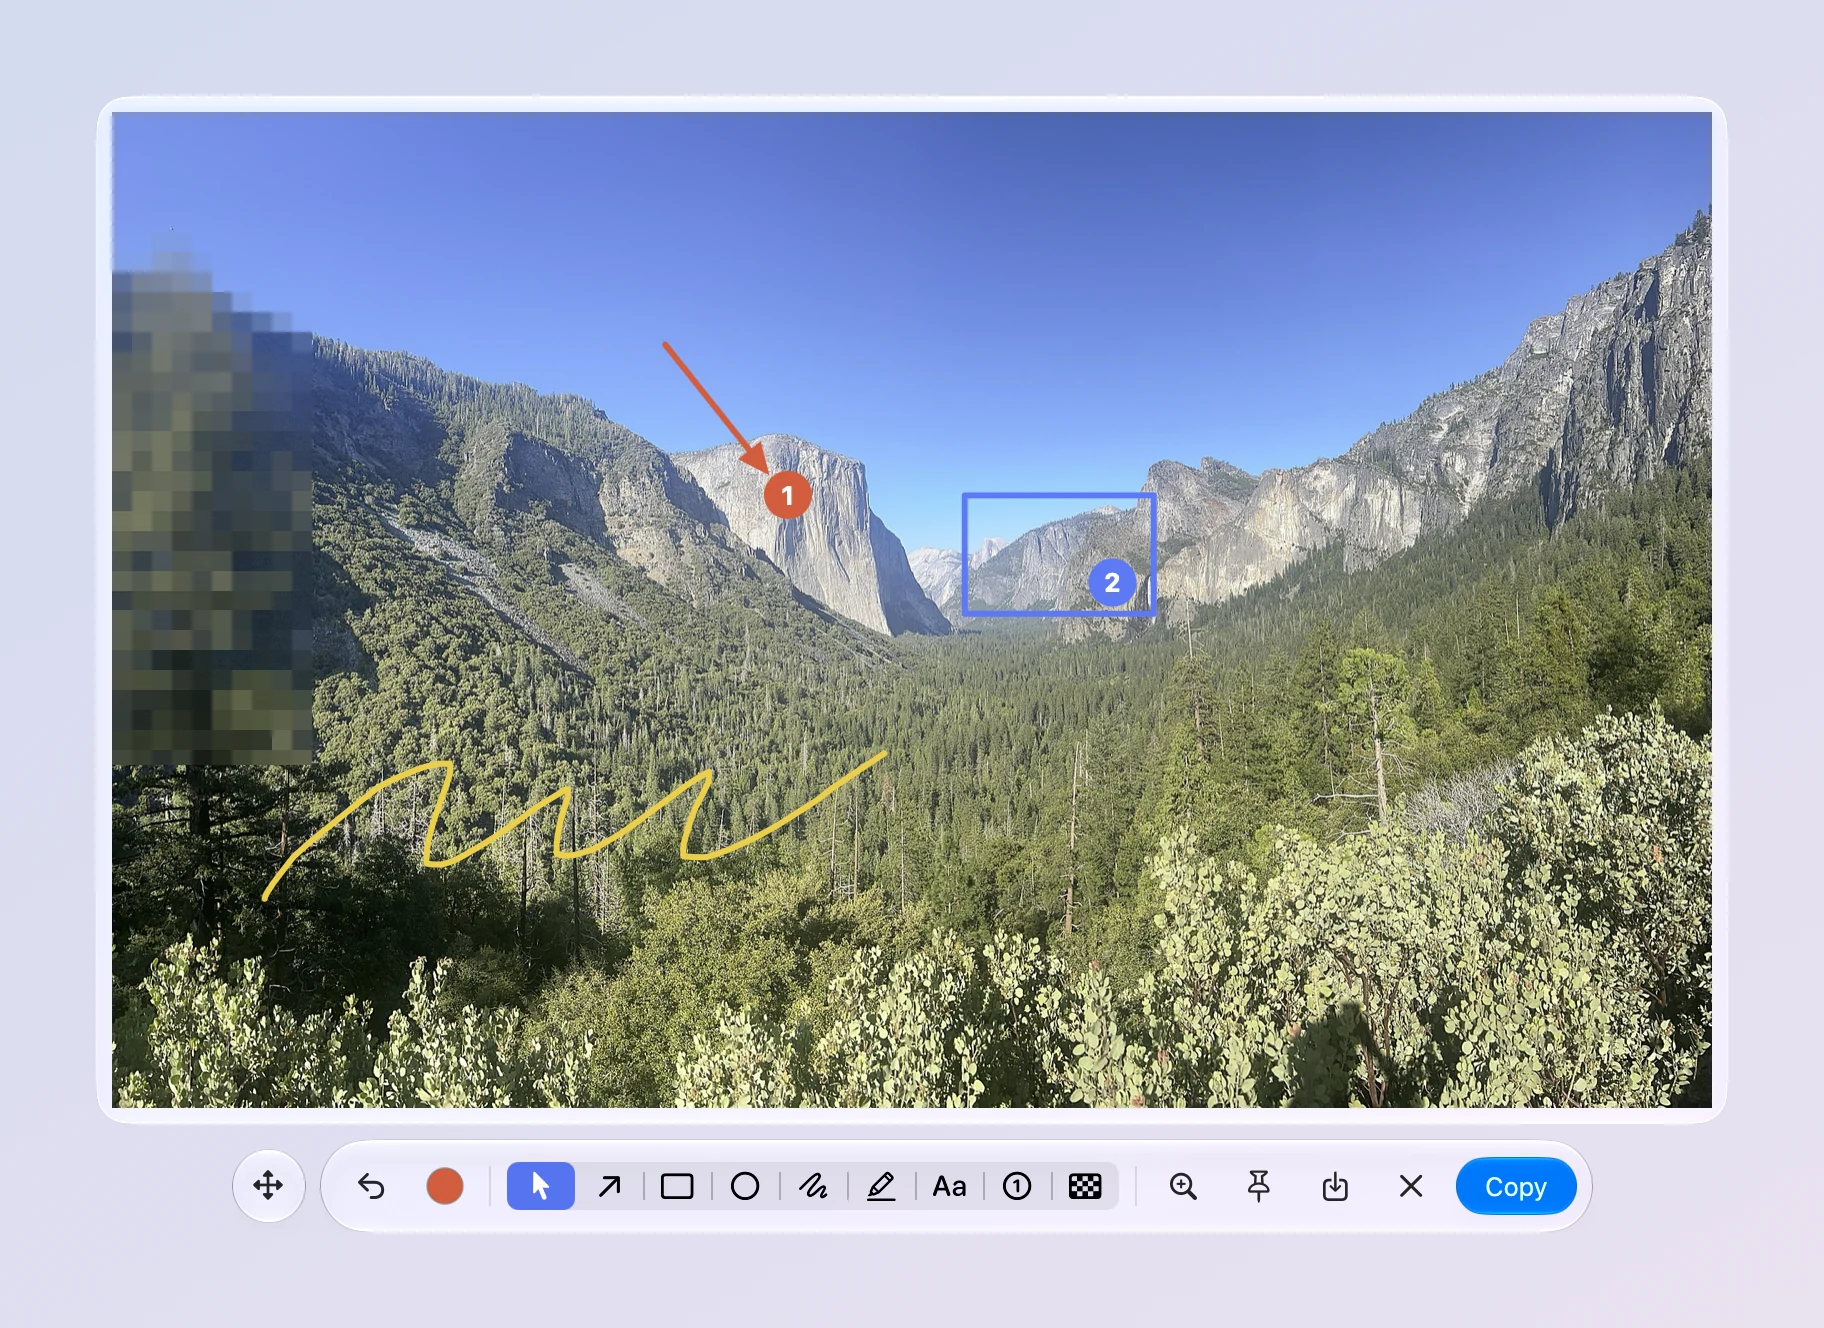
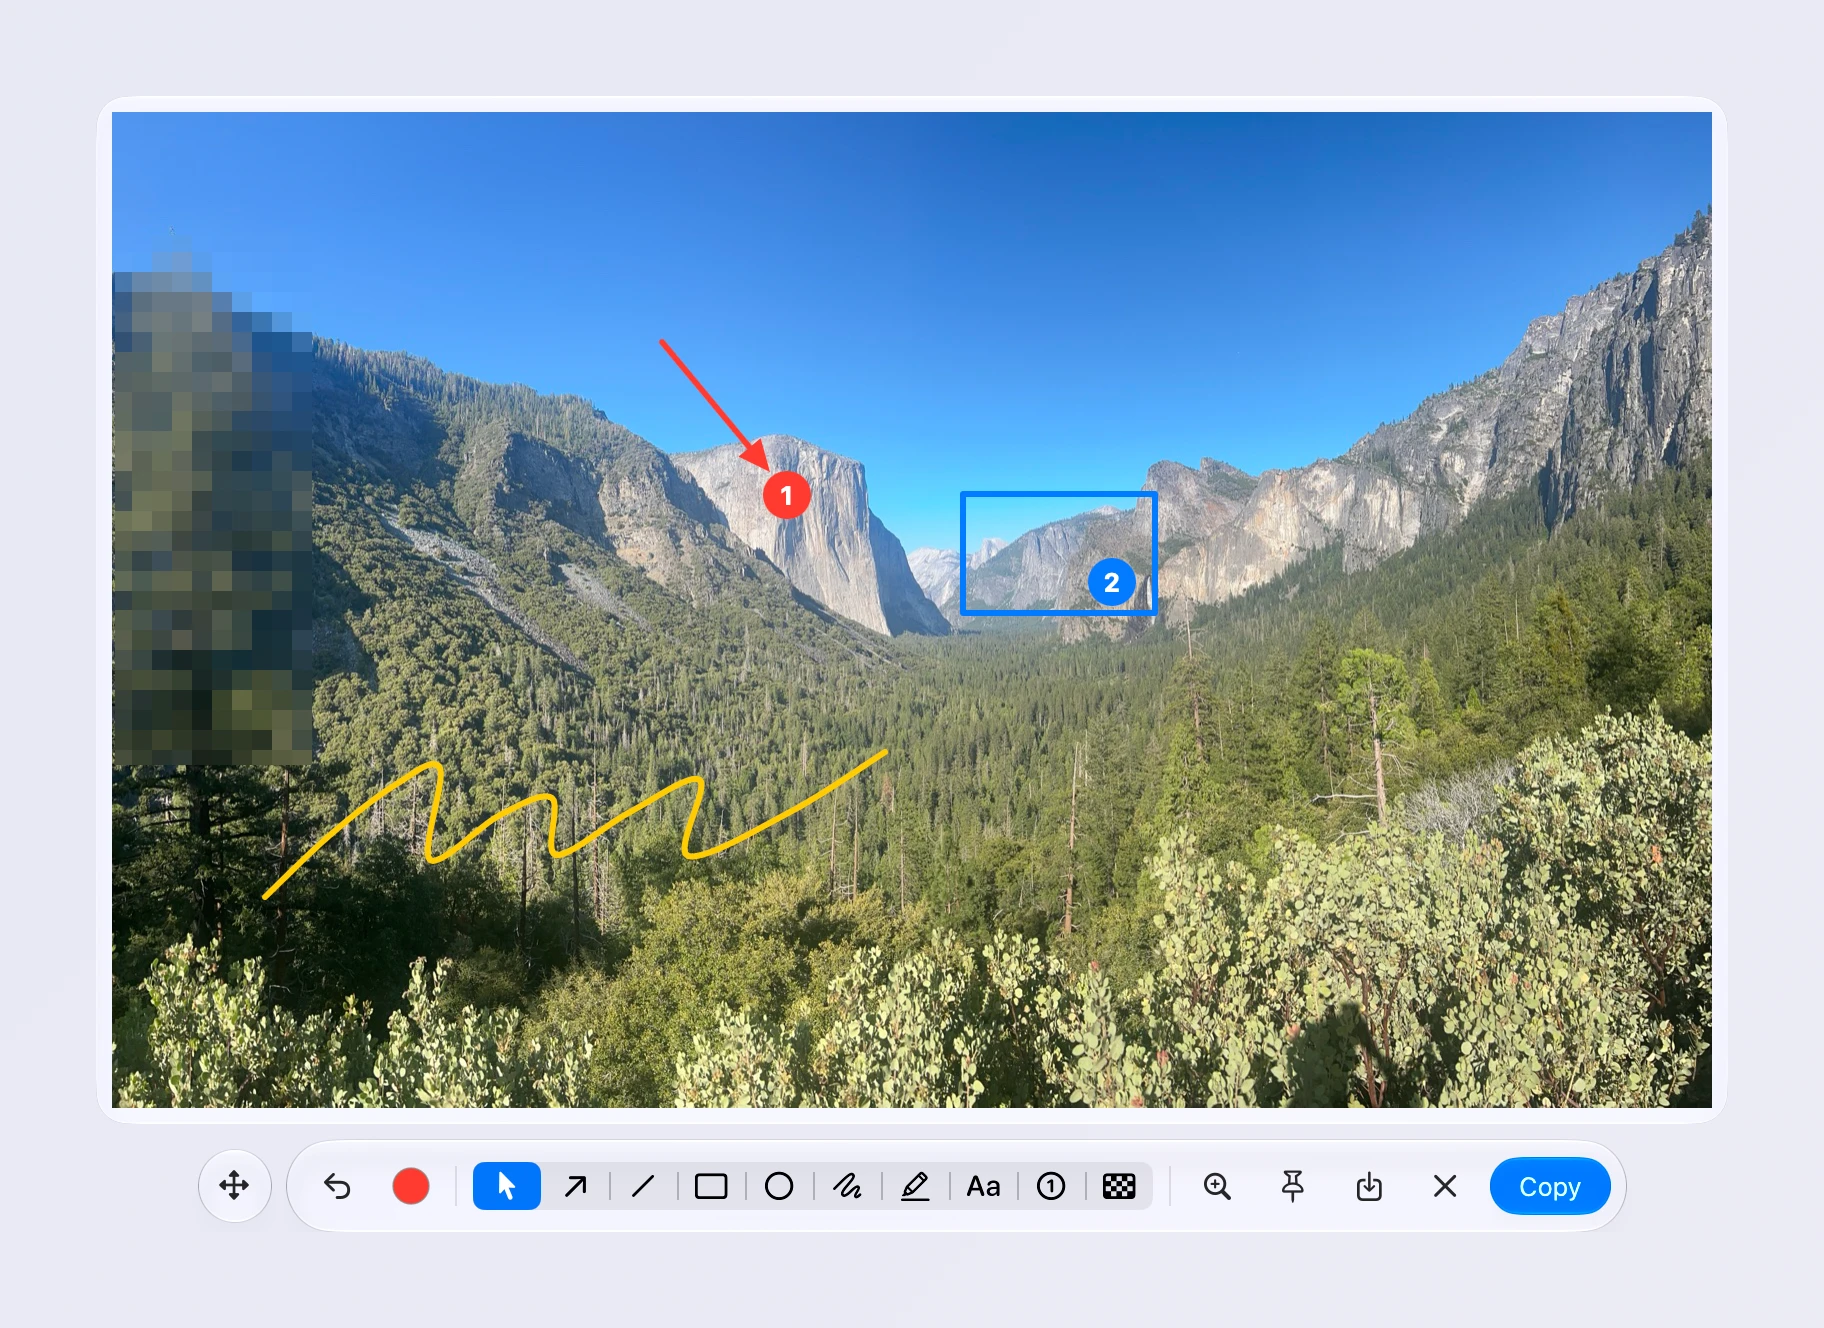
chore(release): prepare V0.3.0 Norma

diff --git a/.github/RELEASE_NOTES.md b/.github/RELEASE_NOTES.md
@@ -1,19 +1,21 @@
-# V0.2.0 Iris
+# V0.3.0 Norma
 
 <div align="center">
   <img src="https://raw.githubusercontent.com/okayzk/Kamira/main/assets/logo.png" alt="Kamira" width="120" height="120" />
-  <h1 style="margin: 12px 0 6px;">Kamira V0.2.0</h1>
+  <h1 style="margin: 12px 0 6px;">Kamira V0.3.0</h1>
   <p><em>Catch the screen, keep it light.</em></p>
 </div>
 
 ### Changelog
-1. **Accessibility**: VoiceOver reads the name of every control, the buttons on preview cards and pins work without hovering, and messages are announced.
-2. **Faster First Text Recognition**: Kamira now prepares text recognition in the background as soon as it starts, rather than on the spot at the first reading, so the first reading after installing or updating macOS no longer waits half a minute in silence.
-3. **Scrolling Capture Stops With the App**: If Kamira quits unexpectedly during a scrolling capture, the capture now stops too instead of carrying on in the background.
+1. **Line Tool**: The annotation editor has a line tool next to the arrow, for straight lines without a head.
+2. **Shift for Straight Lines, Squares and Circles**: Holding Shift keeps arrows and lines horizontal, vertical or at 45°, rectangles square and ellipses round, both while drawing them and while dragging their handles.
+3. **Copied Image Files**: Pin Clipboard Image and Annotate Clipboard Image now open an image file copied in Finder, quickly and without a large memory cost, even for a very large picture.
+4. **Lighter Area Selection**: Choosing an area to record or to capture while scrolling no longer drives memory use up by hundreds of megabytes on large or multiple screens.
 
 ### 更新日志
-1. **支持无障碍**：旁白能读出每个按钮的名称，预览卡片和贴图上的按钮不用悬停也能操作，提示信息会自动播报。
-2. **首次识别文字更快**：Kamira 一启动就在后台准备文字识别，不再等到第一次识别时才临时准备；安装后或系统更新后第一次识别，也不会再无声地等上半分钟。
-3. **长截图随应用停止**：长截图进行中 Kamira 意外退出时，截图会一起停止，不再在后台继续截屏。
+1. **直线工具**：标注工具栏在箭头旁边新增直线，用来画不带箭头的直线。
+2. **按住 Shift 画规整图形**：按住 Shift，箭头和直线只能水平、垂直或成 45°，矩形会画成正方形，椭圆会画成正圆；拖动端点和边角时也一样。
+3. **支持复制的图片文件**：在访达里复制图片文件后，“贴上剪贴板图片”和“标注剪贴板图片”可以直接打开它；图片再大也打开得很快，不会占用大量内存。
+4. **框选区域更省内存**：录屏或长截图框选区域时，在大屏或多块屏幕上，内存不再一下涨到几百 MB。
 
 > https://github.com/okayzk/Kamira

diff --git a/README.md b/README.md
@@ -73,7 +73,7 @@ xattr -dr com.apple.quarantine "/Applications/Kamira.app"
 - **Screenshots**: capture an area, a window, or the whole screen and copy it automatically to the clipboard. Optionally save captures to a folder of your choice with custom file naming.
 - **Floating preview**: screenshots and recordings appear as preview cards, with an optional auto-dismiss timer.
 - **Pins**: keep a screenshot above other windows for reference. It becomes translucent when you move the pointer over it.
-- **Annotation**: add arrows, shapes, freehand strokes, highlights, text, numbered markers, and pixelation. Zoom in to edit fine details.
+- **Annotation**: add arrows, lines, shapes, freehand strokes, highlights, text, numbered markers, and pixelation. Hold Shift for level lines, squares, and circles. Zoom in to edit fine details.
 - **Scrolling capture**: select a region and scroll manually to stitch a long image with a live preview. Overlapping content in consecutive frames is matched while fixed headers, sidebars, and similar elements are excluded from matching. Stitching has been verified on a test page with translucent Liquid Glass overlays.
 - **Text recognition (OCR)**: select an area to recognise and copy Chinese and English text entirely on your Mac, with no network connection needed. Text from multiple columns on the same line stays together, useful for tables and code.
 - **Recording**: record an area, a window, or the whole screen as video or GIF, with microphone and system audio available for video recordings.

diff --git a/README_CN.md b/README_CN.md
@@ -71,7 +71,7 @@ xattr -dr com.apple.quarantine "/Applications/Kamira.app"
 - **截图**：支持区域、窗口和全屏截图，自动复制到剪贴板，也可自动保存到指定文件夹。支持自定义文件名。
 - **悬浮预览**：截图和录屏后显示预览卡片，可设置自动消失时间。
 - **贴图**：将截图置顶，方便对照其他窗口；鼠标移上去时自动变为半透明。
-- **标注**：支持箭头、形状、画笔、高亮、文字、序号和马赛克，可放大图片编辑细节。
+- **标注**：支持箭头、直线、形状、画笔、高亮、文字、序号和马赛克，按住 Shift 可画水平线、正方形和正圆；还能放大图片编辑细节。
 - **滚动长截图**：框选区域后手动滚动，自动拼接并实时预览。通过匹配相邻画面的重叠区域完成拼接，排除固定页眉、侧栏等元素的干扰；已在带有液态玻璃半透明浮层的测试页面中验证拼接效果。
 - **识别文字（OCR）**：在本机识别中英文，框选即可复制，全程无需联网。保留同一行的多列文字，方便处理表格和代码。
 - **录屏**：支持区域、窗口和全屏录制，可录制麦克风及系统声音，保存为视频或 GIF。
